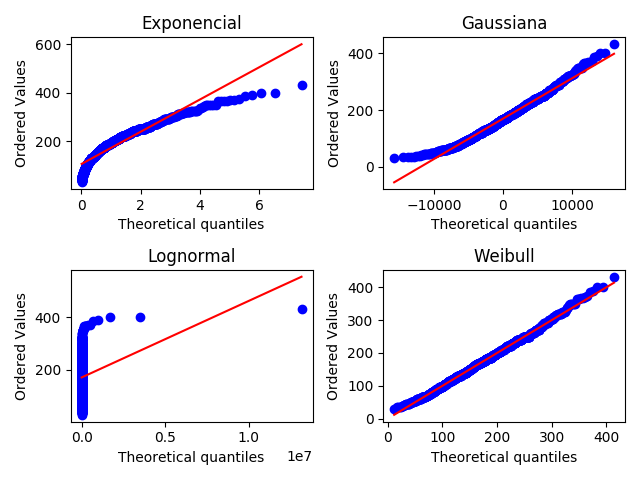
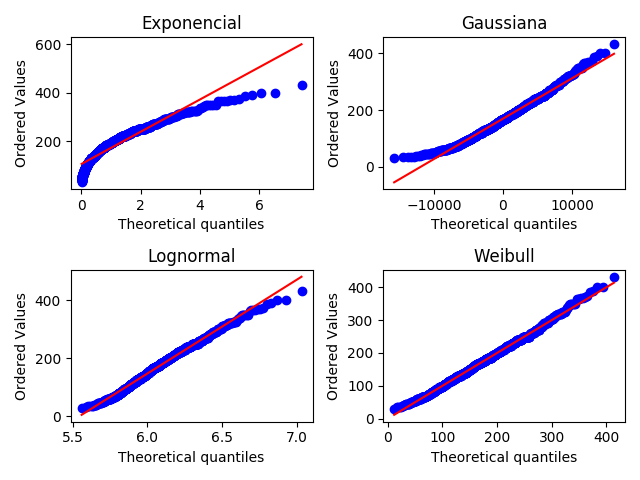
Implementa quinto item

diff --git a/23.py b/23.py
@@ -11,112 +11,55 @@ def main():
     # Importa dados
     df = pd.read_csv('data.csv', sep=',')
 
-    # Idade
-    exp_lambda_idade = exp_mle(df['idade'])
-    norm_mean_idade, norm_var_idade = norm_mle(df['idade'])
-    lognorm_mean_idade, lognorm_var_idade = lognorm_mle(df['idade'])
-    shape_idade, location_idade, scale_idade = weibull_mle(df['idade'])
-    teste = weibull_mle(df['idade'])
+    plot(df['idade'])
+    plot(df['peso'])
+    plot(df['carga'])
+    plot(df['vo2'])
 
-    ecdf = ECDF(df['idade'])
+
+def plot(data):
+    print(f'\n== {data.name} ==')
+    expon_loc, expon_scale = expon_mle(data)
+    print(f'-- Exponencial --')
+    print(f'Lambda: {1 / expon_scale}')
+    print(f'-----------------')
+    norm_loc, norm_scale = norm_mle(data)
+    print(f'-- Gaussiana --')
+    print(f'Média: {norm_loc}')
+    print(f'Variância: {np.power(norm_scale, 2)}')
+    print(f'-----------------')
+    lognorm_shape, lognorm_loc, lognorm_scale = lognorm_mle(data)
+    print(f'-- Lognormal --')
+    print(f'Média: {np.sum(np.log(data)) / data.count()}')
+    print(f'Variância: {np.power(lognorm_shape, 2)}')
+    print(f'-----------------')
+    weibull_shape, weibull_loc, weibull_scale = weibull_mle(data)
+    print(f'-- Weibull --')
+    print(f'Shape: {weibull_shape}')
+    print(f'Location: {weibull_loc}')
+    print(f'Scale: {weibull_scale}')
+    print(f'-----------------')
+    print(f'=================')
+
+    ecdf = ECDF(data)
     plt.plot(ecdf.x, ecdf.y, label='Distribuição Empírica')
 
-    x = np.linspace(df['idade'].min(), df['idade'].max(), 1000)
+    x = np.linspace(data.min(), data.max(), 1000)
 
-    y = scipy.stats.expon.cdf(x, scale=1 / exp_lambda_idade)
+    y = scipy.stats.expon.cdf(x, loc=expon_loc, scale=expon_scale)
     plt.plot(x, y, label='Exponencial')
 
-    y = scipy.stats.norm.cdf(x, loc=norm_mean_idade, scale=math.sqrt(norm_var_idade))
+    y = scipy.stats.norm.cdf(x, loc=norm_loc, scale=norm_scale)
     plt.plot(x, y, label='Gaussiana')
 
-    y = scipy.stats.lognorm.cdf(x, s=math.sqrt(lognorm_var_idade), scale=math.exp(lognorm_mean_idade))
+    y = scipy.stats.lognorm.cdf(x, lognorm_shape, loc=lognorm_loc, scale=lognorm_scale)
     plt.plot(x, y, label='Lognormal')
 
-    y = scipy.stats.weibull_min.cdf(x, shape_idade, loc=location_idade, scale=scale_idade)
+    y = scipy.stats.weibull_min.cdf(x, weibull_shape, loc=weibull_loc, scale=weibull_scale)
     plt.plot(x, y, label='Weibull')
 
     plt.legend()
     plt.show()
-
-    # Peso
-    exp_lambda_peso = exp_mle(df['peso'])
-    norm_mean_peso, norm_var_peso = norm_mle(df['peso'])
-    lognorm_mean_peso, lognorm_var_peso = lognorm_mle(df['peso'])
-    shape_peso, location_peso, scale_peso = weibull_mle(df['peso'])
-
-    ecdf = ECDF(df['peso'])
-    plt.plot(ecdf.x, ecdf.y, label='Distribuição Empírica')
-
-    x = np.linspace(df['peso'].min(), df['peso'].max(), 1000)
-
-    y = scipy.stats.expon.cdf(x, scale=1 / exp_lambda_peso)
-    plt.plot(x, y, label='Exponencial')
-
-    y = scipy.stats.norm.cdf(x, loc=norm_mean_peso, scale=math.sqrt(norm_var_peso))
-    plt.plot(x, y, label='Gaussiana')
-
-    y = scipy.stats.lognorm.cdf(x, s=math.sqrt(lognorm_var_peso), scale=math.exp(lognorm_mean_peso))
-    plt.plot(x, y, label='Lognormal')
-
-    y = scipy.stats.weibull_min.cdf(x, shape_peso, loc=location_peso, scale=scale_peso)
-    plt.plot(x, y, label='Weibull')
-
-    plt.legend()
-    plt.show()
-
-    # Carga
-    exp_lambda_carga = exp_mle(df['carga'])
-    norm_mean_carga, norm_var_carga = norm_mle(df['carga'])
-    lognorm_mean_carga, lognorm_var_carga = lognorm_mle(df['carga'])
-    shape_carga, location_carga, scale_carga = weibull_mle(df['carga'])
-
-    ecdf = ECDF(df['carga'])
-    plt.plot(ecdf.x, ecdf.y, label='Distribuição Empírica')
-
-    x = np.linspace(df['carga'].min(), df['carga'].max(), 1000)
-
-    y = scipy.stats.expon.cdf(x, scale=1 / exp_lambda_carga)
-    plt.plot(x, y, label='Exponencial')
-
-    y = scipy.stats.norm.cdf(x, loc=norm_mean_carga, scale=math.sqrt(norm_var_carga))
-    plt.plot(x, y, label='Gaussiana')
-
-    y = scipy.stats.lognorm.cdf(x, s=math.sqrt(lognorm_var_carga), scale=math.exp(lognorm_mean_carga))
-    plt.plot(x, y, label='Lognormal')
-
-    y = scipy.stats.weibull_min.cdf(x, shape_carga, loc=location_carga, scale=scale_carga)
-    plt.plot(x, y, label='Weibull')
-
-    plt.legend()
-    plt.show()
-
-    # VO2
-    exp_lambda_vo2 = exp_mle(df['vo2'])
-    norm_mean_vo2, norm_var_vo2 = norm_mle(df['vo2'])
-    lognorm_mean_vo2, lognorm_var_vo2 = lognorm_mle(df['vo2'])
-    shape_vo2, location_vo2, scale_vo2 = weibull_mle(df['vo2'])
-
-    ecdf = ECDF(df['vo2'])
-    plt.plot(ecdf.x, ecdf.y, label='Distribuição Empírica')
-
-    x = np.linspace(df['vo2'].min(), df['vo2'].max(), 1000)
-
-    y = scipy.stats.expon.cdf(x, scale=1 / exp_lambda_vo2)
-    plt.plot(x, y, label='Exponencial')
-
-    y = scipy.stats.norm.cdf(x, loc=norm_mean_vo2, scale=math.sqrt(norm_var_vo2))
-    plt.plot(x, y, label='Gaussiana')
-
-    y = scipy.stats.lognorm.cdf(x, s=math.sqrt(lognorm_var_vo2), scale=math.exp(lognorm_mean_vo2))
-    plt.plot(x, y, label='Lognormal')
-
-    y = scipy.stats.weibull_min.cdf(x, shape_vo2, loc=location_vo2, scale=scale_vo2)
-    plt.plot(x, y, label='Weibull')
-
-    plt.legend()
-    plt.show()
-
-    print("debug")
 
 
 if __name__ == '__main__':

diff --git a/25.py b/25.py
@@ -1,0 +1,51 @@
+import pandas as pd
+from scipy import stats
+
+from utils import *
+
+
+def main():
+    df = pd.read_csv('data.csv', sep=',')
+
+    print('== Idade ==')
+    test(df['idade'])
+    print('===========')
+    print('== Peso ==')
+    test(df['peso'])
+    print('===========')
+    print('== Carga ==')
+    test(df['carga'])
+    print('===========')
+    print('== VO2 ==')
+    test(df['vo2'])
+    print('===========')
+
+
+def test(x):
+    expon_params = expon_mle(x)
+    ks_expon = stats.kstest(x, 'expon', expon_params)
+    print('Exponencial')
+    print(f'D = {ks_expon[0]}')
+    print(f'p_value = {ks_expon[1]}\n')
+
+    print('Gaussiana')
+    norm_params = norm_mle(x)
+    ks_norm = stats.kstest(x, 'norm', norm_params)
+    print(f'D = {ks_norm[0]}')
+    print(f'p_value = {ks_norm[1]}\n')
+
+    print('Lognormal')
+    lognorm_params = lognorm_mle(x)
+    ks_lognorm = stats.kstest(x, 'lognorm', lognorm_params)
+    print(f'D = {ks_lognorm[0]}')
+    print(f'p_value = {ks_lognorm[1]}\n')
+
+    print('Weibull')
+    weibull_params = weibull_mle(x)
+    ks_weibull = stats.kstest(x, 'weibull_min', weibull_params)
+    print(f'D = {ks_weibull[0]}')
+    print(f'p_value = {ks_weibull[1]}')
+
+
+if __name__ == '__main__':
+    main()

diff --git a/utils.py b/utils.py
@@ -1,33 +1,17 @@
-import math
-
-from scipy.stats import weibull_min
+import scipy.stats
 
 
-def exp_mle(x):
-    return len(x) / x.sum()
+def expon_mle(x):
+    return scipy.stats.expon.fit(x, floc=0)
 
 
 def norm_mle(x):
-    mean = x.mean()
-    var = 0
-    for i, v in x.iteritems():
-        var += (v - mean) ** 2
-    var = var / len(x)
-    return mean, var
+    return scipy.stats.norm.fit(x)
 
 
 def lognorm_mle(x):
-    mean = 0
-    for i, v in x.iteritems():
-        mean += math.log(v)
-    mean = mean / len(x)
-    var = 0
-    for i, v in x.iteritems():
-        var += (math.log(v) - mean) ** 2
-    var = var / len(x)
-    return mean, var
+    return scipy.stats.lognorm.fit(x, floc=0)
 
 
 def weibull_mle(x):
-    # Shape, location, scale
-    return weibull_min.fit(x, floc=0)
+    return scipy.stats.weibull_min.fit(x, floc=0)

diff --git a/22.py b/22.py
@@ -8,7 +8,7 @@ def main():
 
     calc_mean_and_var(df)
 
-    calc_boxplot(df)
+    boxplot(df)
 
 
 def calc_mean_and_var(df):
@@ -25,7 +25,7 @@ def calc_mean_and_var(df):
           f'\nMédia: {mean_carga} | Variâcia: {var_carga}\nVO2\nMédia: {mean_vo2} | Variâcia: {var_vo2}\n')
 
 
-def calc_boxplot(df):
+def boxplot(df):
     titles = ['Idade', 'Peso', 'Carga', 'VO2']
 
     f, a = plt.subplots(2, 2)

diff --git a/24.py b/24.py
@@ -18,7 +18,7 @@ def main():
 def plot(x):
     distribution = ['expon', 'norm', 'lognorm', 'weibull_min']
     titles = ['Exponencial', 'Gaussiana', 'Lognormal', 'Weibull']
-    sparams = [exp_mle(x), norm_mle(x), lognorm_mle(x), weibull_mle(x)]
+    sparams = [expon_mle(x), norm_mle(x), lognorm_mle(x), weibull_mle(x)]
 
     f, a = plt.subplots(2, 2)
     a = a.ravel()
